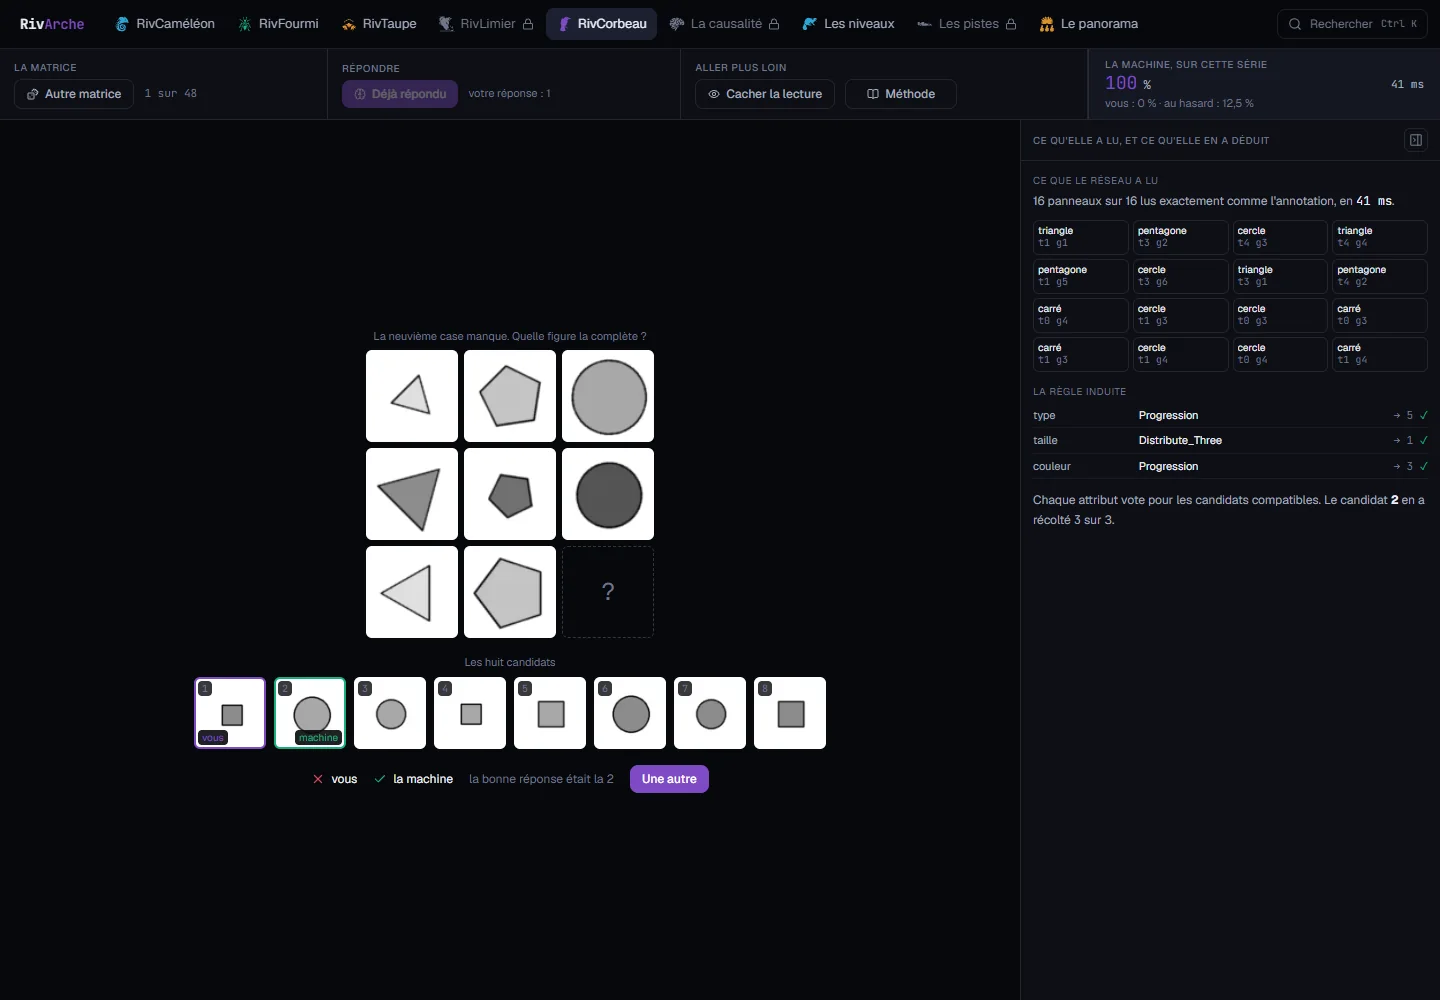
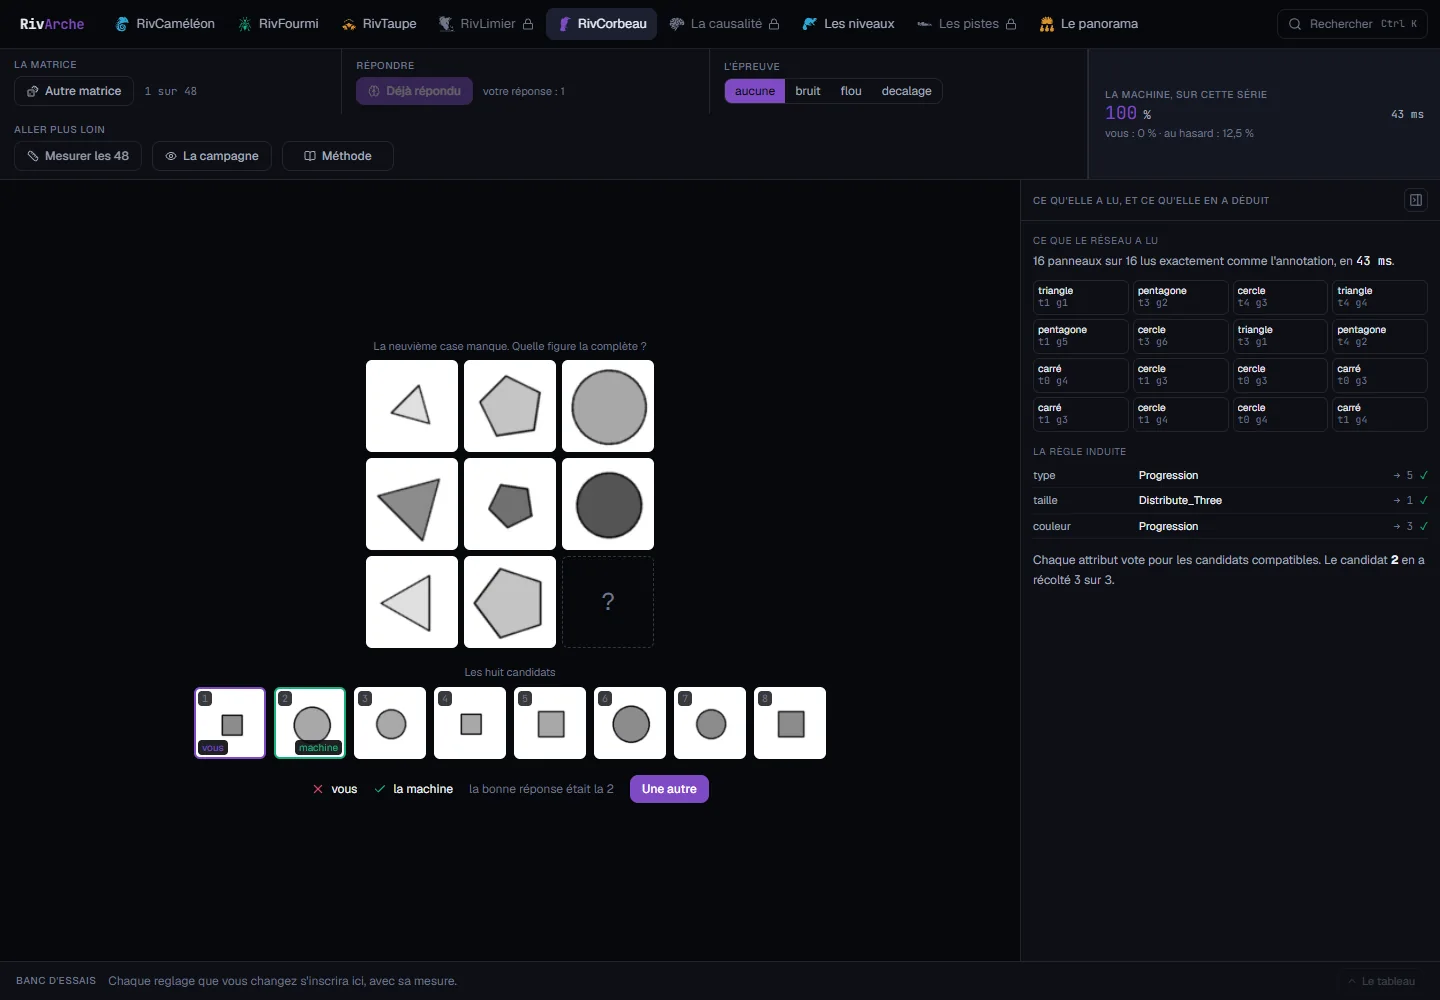
RivCorbeau : l'epreuve et la reference aveugle entrent a la fiche
Le raccourci qui gagnait sur le RAVEN d'origine est maintenant calcule dans
la page et non plus cite : 4,2 pour cent sur I-RAVEN. Et l'epreuve montre
l'erreur systematique du reseau : sous flou, 484 erreurs sur 768 panneaux,
toutes vers le triangle.

diff --git a/src/projets/rivcorbeau/fiche.ts b/src/projets/rivcorbeau/fiche.ts
@@ -1,4 +1,5 @@
 import type { Projet } from "../types";
+import confusion from "./confusion.webp";
 import matrice from "./matrice.webp";
 import mesures from "./mesures.webp";
 
@@ -30,6 +31,13 @@ const fiche: Projet = {
       format: "ecran",
     },
     {
+      src: confusion,
+      alt: "La campagne sous épreuve, et la matrice de confusion",
+      legende:
+        "On abîme l'entrée exprès et on rejoue les quarante-huit matrices. Sous un flou de soixante pour cent, les formes ne sont plus lues qu'à 37 pour cent et la résolution tombe de 100 à 18,8. La matrice de confusion dit l'erreur systématique : quand les contours se perdent, tout s'effondre vers le triangle",
+      format: "ecran",
+    },
+    {
       src: mesures,
       alt: "Les quatre chiffres de la chaîne",
       legende:
@@ -39,7 +47,7 @@ const fiche: Projet = {
   ],
   chiffres: [
     { valeur: 99.8, suffixe: " %", libelle: "de matrices résolues, sur 440 problèmes jamais vus" },
-    { valeur: 12.5, suffixe: " %", libelle: "la référence : un candidat tiré au hasard parmi huit" },
+    { valeur: 4.2, suffixe: " %", libelle: "le raccourci qui gagnait sur le RAVEN d'origine, mesuré ici sur I-RAVEN" },
     { valeur: 268, libelle: "milliers de poids, et le modèle tient dans un mégaoctet" },
     { valeur: 42, suffixe: " ms", libelle: "pour lire les seize panneaux, dans le navigateur" },
   ],
@@ -79,11 +87,23 @@ const fiche: Projet = {
       ],
     },
     {
-      titre: "Pourquoi I-RAVEN et pas RAVEN",
+      titre: "Pourquoi I-RAVEN et pas RAVEN, et la preuve est dans la page",
+      texte:
+        "C'est la critique la plus connue du jeu d'origine, et elle est habituellement citée. Ici elle est recalculée dans le navigateur à chaque campagne.",
       points: [
-        "Dans le jeu d'origine, les sept mauvaises réponses étaient fabriquées en modifiant **un seul** attribut de la bonne",
-        "Un modèle qui ne regardait même pas la matrice retrouvait donc la réponse en prenant la plus « moyenne » des huit",
-        "I-RAVEN fabrique les distracteurs autrement, et la référence redescend à **un sur huit**. C'est contre elle que le 99,8 pour cent se juge",
+        "Dans le jeu d'origine, les sept mauvaises réponses étaient fabriquées en modifiant **un seul** attribut de la bonne. Un modèle qui ne regardait même pas la matrice retrouvait donc la réponse en prenant la plus « moyenne » des huit",
+        "Ce raccourci est implémenté dans l'atelier : il ne reçoit que les huit candidats, jamais le contexte",
+        "Mesuré sur les quarante-huit matrices d'I-RAVEN : **4,2 pour cent**, donc en dessous même du hasard. Les distracteurs ne sont plus exploitables, et le 99,8 pour cent du modèle vaut quelque chose",
+      ],
+    },
+    {
+      titre: "L'épreuve, et l'erreur systématique qu'elle révèle",
+      texte:
+        "Un modèle qui lit parfaitement des images propres ne prouve rien : les images propres, c'est lui qui les a vues. La question est où il se casse, et dans quel ordre.",
+      points: [
+        "Trois épreuves réglables : du bruit, un flou, un décalage. La campagne rejoue les quarante-huit matrices sous le réglage choisi, et chaque campagne s'inscrit au banc d'essais",
+        "Sous un flou de soixante pour cent : gris lus à 71 pour cent, tailles à 55, **formes à 37**, et la résolution tombe à 18,8. Les trois attributs ne lâchent pas ensemble, et la forme lâche la première",
+        "La matrice de confusion nomme l'erreur : **484 erreurs sur 768 panneaux, toutes vers le triangle**. Quand les contours disparaissent, le réseau répond la forme la plus simple, il ne répond pas au hasard",
       ],
     },
   ],
